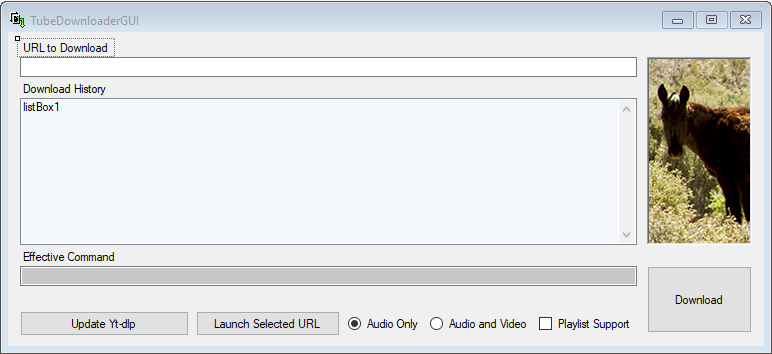
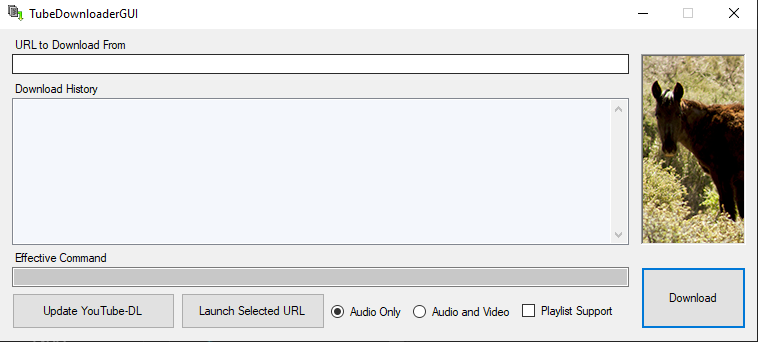
screenshot updated

Changed region(s): [[0.0, 0.0, 1.0, 1.0], [0.8799, 0.8187, 0.9406, 0.9064]]

diff --git a/TubeDownloaderGUI/TubeDownloaderGUI.Designer.cs b/TubeDownloaderGUI/TubeDownloaderGUI.Designer.cs
@@ -47,9 +47,9 @@
             // 
             // button1
             // 
-            this.button1.Location = new System.Drawing.Point(654, 76);
+            this.button1.Location = new System.Drawing.Point(641, 238);
             this.button1.Name = "button1";
-            this.button1.Size = new System.Drawing.Size(105, 45);
+            this.button1.Size = new System.Drawing.Size(105, 62);
             this.button1.TabIndex = 0;
             this.button1.Text = "Download";
             this.button1.UseVisualStyleBackColor = true;
@@ -66,11 +66,11 @@
             // radioButton1
             // 
             this.radioButton1.AutoSize = true;
-            this.radioButton1.Location = new System.Drawing.Point(707, 26);
+            this.radioButton1.Location = new System.Drawing.Point(413, 274);
             this.radioButton1.Name = "radioButton1";
-            this.radioButton1.Size = new System.Drawing.Size(52, 17);
+            this.radioButton1.Size = new System.Drawing.Size(103, 17);
             this.radioButton1.TabIndex = 2;
-            this.radioButton1.Text = "Video";
+            this.radioButton1.Text = "Audio and Video";
             this.radioButton1.UseVisualStyleBackColor = true;
             this.radioButton1.CheckedChanged += new System.EventHandler(this.radioButton1_CheckedChanged);
             // 
@@ -78,19 +78,19 @@
             // 
             this.radioButton2.AutoSize = true;
             this.radioButton2.Checked = true;
-            this.radioButton2.Location = new System.Drawing.Point(654, 26);
+            this.radioButton2.Location = new System.Drawing.Point(331, 274);
             this.radioButton2.Name = "radioButton2";
-            this.radioButton2.Size = new System.Drawing.Size(47, 17);
+            this.radioButton2.Size = new System.Drawing.Size(76, 17);
             this.radioButton2.TabIndex = 3;
             this.radioButton2.TabStop = true;
-            this.radioButton2.Text = "MP3";
+            this.radioButton2.Text = "Audio Only";
             this.radioButton2.UseVisualStyleBackColor = true;
             this.radioButton2.CheckedChanged += new System.EventHandler(this.radioButton2_CheckedChanged);
             // 
             // checkBox1
             // 
             this.checkBox1.AutoSize = true;
-            this.checkBox1.Location = new System.Drawing.Point(654, 53);
+            this.checkBox1.Location = new System.Drawing.Point(522, 274);
             this.checkBox1.Name = "checkBox1";
             this.checkBox1.Size = new System.Drawing.Size(98, 17);
             this.checkBox1.TabIndex = 5;
@@ -101,7 +101,7 @@
             // textBox2
             // 
             this.textBox2.BackColor = System.Drawing.SystemColors.ScrollBar;
-            this.textBox2.Location = new System.Drawing.Point(12, 307);
+            this.textBox2.Location = new System.Drawing.Point(12, 238);
             this.textBox2.Name = "textBox2";
             this.textBox2.Size = new System.Drawing.Size(617, 20);
             this.textBox2.TabIndex = 6;
@@ -111,15 +111,15 @@
             this.label1.AutoSize = true;
             this.label1.Location = new System.Drawing.Point(12, 9);
             this.label1.Name = "label1";
-            this.label1.Size = new System.Drawing.Size(122, 13);
+            this.label1.Size = new System.Drawing.Size(118, 13);
             this.label1.TabIndex = 7;
-            this.label1.Text = "Paste URL to Download";
+            this.label1.Text = "URL to Download From";
             this.label1.Click += new System.EventHandler(this.label1_Click);
             // 
             // label2
             // 
             this.label2.AutoSize = true;
-            this.label2.Location = new System.Drawing.Point(12, 291);
+            this.label2.Location = new System.Drawing.Point(12, 222);
             this.label2.Name = "label2";
             this.label2.Size = new System.Drawing.Size(99, 13);
             this.label2.TabIndex = 8;
@@ -148,7 +148,7 @@
             // 
             // button2
             // 
-            this.button2.Location = new System.Drawing.Point(485, 233);
+            this.button2.Location = new System.Drawing.Point(181, 264);
             this.button2.Name = "button2";
             this.button2.Size = new System.Drawing.Size(144, 36);
             this.button2.TabIndex = 11;
@@ -161,7 +161,7 @@
             this.pictureBox1.BorderStyle = System.Windows.Forms.BorderStyle.Fixed3D;
             this.pictureBox1.Cursor = System.Windows.Forms.Cursors.Hand;
             this.pictureBox1.Image = ((System.Drawing.Image)(resources.GetObject("pictureBox1.Image")));
-            this.pictureBox1.Location = new System.Drawing.Point(654, 136);
+            this.pictureBox1.Location = new System.Drawing.Point(641, 25);
             this.pictureBox1.Name = "pictureBox1";
             this.pictureBox1.Size = new System.Drawing.Size(105, 191);
             this.pictureBox1.TabIndex = 12;
@@ -170,7 +170,7 @@
             // 
             // button3
             // 
-            this.button3.Location = new System.Drawing.Point(12, 233);
+            this.button3.Location = new System.Drawing.Point(12, 264);
             this.button3.Name = "button3";
             this.button3.Size = new System.Drawing.Size(163, 36);
             this.button3.TabIndex = 13;
@@ -182,7 +182,7 @@
             // 
             this.AutoScaleDimensions = new System.Drawing.SizeF(6F, 13F);
             this.AutoScaleMode = System.Windows.Forms.AutoScaleMode.Font;
-            this.ClientSize = new System.Drawing.Size(775, 342);
+            this.ClientSize = new System.Drawing.Size(757, 312);
             this.Controls.Add(this.button3);
             this.Controls.Add(this.pictureBox1);
             this.Controls.Add(this.button2);
